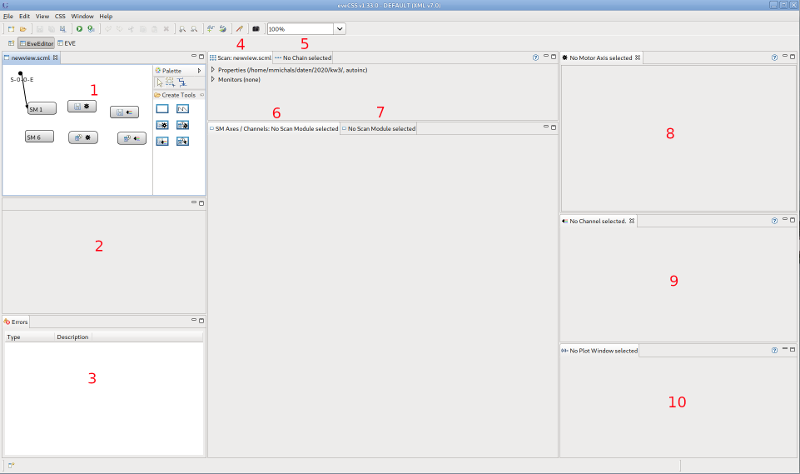
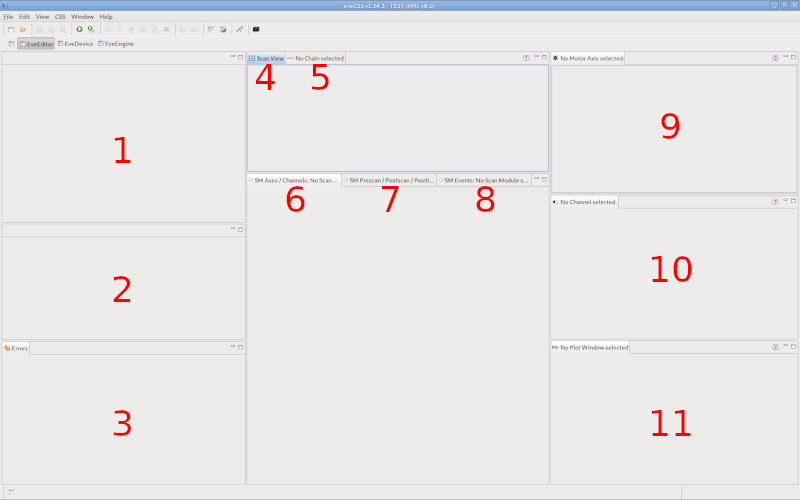
#5363: help-concepts pages creation and modification, tasks TOC entries

diff --git a/bundles/de.ptb.epics.eve.editor/help/content/concepts/smaxeschannelsview.html b/bundles/de.ptb.epics.eve.editor/help/content/concepts/smaxeschannelsview.html
@@ -1,1 +1,1 @@
-<?xml version='1.0' encoding='utf-8' ?><!DOCTYPE html PUBLIC "-//W3C//DTD XHTML 1.0 Transitional//EN" "http://www.w3.org/TR/xhtml1/DTD/xhtml1-transitional.dtd"><html xmlns="http://www.w3.org/1999/xhtml"><head><meta http-equiv="Content-Type" content="text/html; charset=utf-8"/><title>smaxeschannelsview</title><link type="text/css" rel="stylesheet" href="PLUGINS_ROOT/de.ptb.epics.eve.editor/help/css/editor.css"/></head><body><h1 id="top" class="eveTopic|">SM Axes / Channels View</h1><ol class="toc" style="list-style: circle;"><li><a href="#top">SM Axes / Channels View</a><ol style="list-style: circle;"><li><a href="#ScanModule">Scan Module</a></li><li><a href="#StaticAxisSnapshot">Static Axis Snapshot</a></li><li><a href="#StaticChannelSnapshot">Static Channel Snapshot</a></li><li><a href="#DynamicAxisSnapshot">Dynamic Axis Snapshot</a></li><li><a href="#DynamicChannelSnapshot">Dynamic Channel Snapshot</a></li></ol></li></ol><p>The content of the ScanModuleView depends on the type of the currently selected scan module. It shows attributes that can be altered and allows adding/deleting devices, actions, events, etc. in certain cases. The different appearances are shown in the following.</p><h2 id="ScanModule" class="eveTopic">Scan Module</h2><p class="backToTop"><a href="#top">back to top</a></p><p>For a common (a.k.a. classic) scan module the SM Axes / Channels View looks as follows:</p><p style="text-align: center;"><img class="eveImage" alt="sample content for a scan module" title="sample content for a scan module" border="0" src="../../img/concepts/SMAxesChannelsView/ClassicComposite.png"/></p><h3 id="GeneralSettings" class="eveTopic">General Settings</h3><ul><li><i>No of Measurements</i>: the number of measurements taken for each motor position</li><li><i>Trigger Delay (in s)</i>: delay in s before detectors are triggered</li><li><i>Settle Time (in s)</i>: delay in s after the first motor position is reached</li><li><i>Manual Trigger</i>: whether setting motor positions and/or triggering detectors should be confirmed</li></ul><h3 id="MotorAxes" class="eveTopic">Motor Axes</h3><p>Allows adding/removing of and displays current motor axes. Properties of selected axes can be modified either in the <a href="motoraxisview.html">Motor Axis View</a> or <a href="../tasks/editaxisproperties.html">directly in the table</a>.</p><h3 id="DetectorChannels" class="eveTopic">Detector Channels</h3><p>Allows adding/removing of and displays current detector channels. Properties of selected channels can be modified either in the <a href="detectorchannelview.html">Detector Channel View</a> or <a href="../tasks/editchannelproperties.html">directly in the table</a>.</p><h2 id="StaticAxisSnapshot" class="eveTopic">Static Axis Snapshot</h2><p class="backToTop"><a href="#top">back to top</a></p><p>When a scan module of type &#8222;Axis Snapshot (static)&#8221; is selected, the view shows a table containing all axes contained in the snapshot. Axes can be added or removed.</p><p style="text-align: center;"><img class="eveImage" alt="sample content for a static axis snapshot scan module" title="sample content for a static axis snapshot scan module" border="0" src="../../img/concepts/SMAxesChannelsView/StaticAxisPositionsComposite.png"/></p><h2 id="StaticChannelSnapshot" class="eveTopic">Static Channel Snapshot</h2><p class="backToTop"><a href="#top">back to top</a></p><p>When a scan module of type &#8222;Channel Snapshot (static)&#8221; is selected the view shows a table containing all channels contained in the snapshot. Channels can be added or removed. </p><p style="text-align: center;"><img class="eveImage" alt="sample content for a static channel snapshot scan module" title="sample content for a static channel snapshot scan module" border="0" src="../../img/concepts/SMAxesChannelsView/StaticChannelValuesComposite.png"/></p><h2 id="DynamicAxisSnapshot" class="eveTopic">Dynamic Axis Snapshot</h2><p class="backToTop"><a href="#top">back to top</a></p><p>Scan modules of type &#8222;Axis Snapshot (dynamic)&#8221; cannot be altered. Their contents is determined during scan execution. The view shows an immutable table showing all axes contained in the snapshot based on the currently loaded device definition.</p><p style="text-align: center;"><img class="eveImage" alt="sample content for a dynamic axis snapshot scanmodule" title="sample content for a dynamic axis snapshot scanmodule" border="0" src="../../img/concepts/SMAxesChannelsView/DynamicAxisPositionsComposite.png"/></p><h2 id="DynamicChannelSnapshot" class="eveTopic">Dynamic Channel Snapshot</h2><p class="backToTop"><a href="#top">back to top</a></p><p>Scan modules of type &#8222;Channel Snapshot (dynamic)&#8221; cannot be altered. Their contents is determined during scan execution. The view shows an immutable table showing all channels contained in the snapshot based on the currently loaded device definition.</p><p style="text-align: center;"><img class="eveImage" alt="sample content for a dynamic channel snapshot scanmodule" title="sample content for a dynamic channel snapshot scanmodule" border="0" src="../../img/concepts/SMAxesChannelsView/DynamicChannelValuesComposite.png"/></p></body></html>
+<?xml version='1.0' encoding='utf-8' ?><!DOCTYPE html PUBLIC "-//W3C//DTD XHTML 1.0 Transitional//EN" "http://www.w3.org/TR/xhtml1/DTD/xhtml1-transitional.dtd"><html xmlns="http://www.w3.org/1999/xhtml"><head><meta http-equiv="Content-Type" content="text/html; charset=utf-8"/><title>smaxeschannelsview</title><link type="text/css" rel="stylesheet" href="PLUGINS_ROOT/de.ptb.epics.eve.editor/help/css/editor.css"/></head><body><h1 id="top" class="eveTopic|">SM Axes / Channels View</h1><ol class="toc" style="list-style: circle;"><li><a href="#top">SM Axes / Channels View</a><ol style="list-style: circle;"><li><a href="#ScanModule">Scan Module</a></li><li><a href="#StaticAxisSnapshot">Static Axis Snapshot</a></li><li><a href="#StaticChannelSnapshot">Static Channel Snapshot</a></li><li><a href="#DynamicAxisSnapshot">Dynamic Axis Snapshot</a></li><li><a href="#DynamicChannelSnapshot">Dynamic Channel Snapshot</a></li></ol></li></ol><p>The content of the SM Axes / Channels View depends on the type of the currently selected scan module. It shows attributes that can be altered and allows adding/deleting devices, actions, events, etc. in certain cases. The different appearances are shown in the following.</p><h2 id="ScanModule" class="eveTopic">Scan Module</h2><p class="backToTop"><a href="#top">back to top</a></p><p>For a common (a.k.a. classic) scan module the SM Axes / Channels View looks as follows:</p><p style="text-align: center;"><img class="eveImage" alt="sample content for a scan module" title="sample content for a scan module" border="0" src="../../img/concepts/SMAxesChannelsView/ClassicComposite.png"/></p><h3 id="GeneralSettings" class="eveTopic">General Settings</h3><ul><li><i>No of Measurements</i>: the number of measurements taken for each motor position</li><li><i>Trigger Delay (in s)</i>: delay in s before detectors are triggered</li><li><i>Settle Time (in s)</i>: delay in s after the first motor position is reached</li><li><i>Manual Trigger</i>: whether setting motor positions and/or triggering detectors should be confirmed</li></ul><h3 id="MotorAxes" class="eveTopic">Motor Axes</h3><p>Allows adding/removing of and displays Motor Axes of the currently selected scan module. Properties of selected axes can be modified either in the <a href="motoraxisview.html">Motor Axis View</a> or <a href="../tasks/editaxisproperties.html">directly in the table</a>.</p><h3 id="DetectorChannels" class="eveTopic">Detector Channels</h3><p>Allows adding/removing of and displays Detector Channels of the currently selected scan module. Properties of selected channels can be modified either in the <a href="detectorchannelview.html">Detector Channel View</a> or <a href="../tasks/editchannelproperties.html">directly in the table</a>.</p><h2 id="StaticAxisSnapshot" class="eveTopic">Static Axis Snapshot</h2><p class="backToTop"><a href="#top">back to top</a></p><p>When a scan module of type &#8220;Axis Snapshot (static)&#8221; is selected, the view shows a table containing all axes contained in the snapshot. Axes can be added or removed.</p><p style="text-align: center;"><img class="eveImage" alt="sample content for a static axis snapshot scan module" title="sample content for a static axis snapshot scan module" border="0" src="../../img/concepts/SMAxesChannelsView/StaticAxisPositionsComposite.png"/></p><h2 id="StaticChannelSnapshot" class="eveTopic">Static Channel Snapshot</h2><p class="backToTop"><a href="#top">back to top</a></p><p>When a scan module of type &#8220;Channel Snapshot (static)&#8221; is selected the view shows a table containing all channels contained in the snapshot. Channels can be added or removed. </p><p style="text-align: center;"><img class="eveImage" alt="sample content for a static channel snapshot scan module" title="sample content for a static channel snapshot scan module" border="0" src="../../img/concepts/SMAxesChannelsView/StaticChannelValuesComposite.png"/></p><h2 id="DynamicAxisSnapshot" class="eveTopic">Dynamic Axis Snapshot</h2><p class="backToTop"><a href="#top">back to top</a></p><p>Scan modules of type &#8220;Axis Snapshot (dynamic)&#8221; cannot be altered. Their contents is determined during scan execution. The view shows an immutable table showing all axes contained in the snapshot based on the currently loaded device definition.</p><p style="text-align: center;"><img class="eveImage" alt="sample content for a dynamic axis snapshot scanmodule" title="sample content for a dynamic axis snapshot scanmodule" border="0" src="../../img/concepts/SMAxesChannelsView/DynamicAxisPositionsComposite.png"/></p><h2 id="DynamicChannelSnapshot" class="eveTopic">Dynamic Channel Snapshot</h2><p class="backToTop"><a href="#top">back to top</a></p><p>Scan modules of type &#8220;Channel Snapshot (dynamic)&#8221; cannot be altered. Their contents is determined during scan execution. The view shows an immutable table showing all channels contained in the snapshot based on the currently loaded device definition.</p><p style="text-align: center;"><img class="eveImage" alt="sample content for a dynamic channel snapshot scanmodule" title="sample content for a dynamic channel snapshot scanmodule" border="0" src="../../img/concepts/SMAxesChannelsView/DynamicChannelValuesComposite.png"/></p></body></html>

diff --git a/bundles/de.ptb.epics.eve.editor/help/content/tasks/addelements.html b/bundles/de.ptb.epics.eve.editor/help/content/tasks/addelements.html
@@ -1,0 +1,1 @@
+<?xml version='1.0' encoding='utf-8' ?><!DOCTYPE html PUBLIC "-//W3C//DTD XHTML 1.0 Transitional//EN" "http://www.w3.org/TR/xhtml1/DTD/xhtml1-transitional.dtd"><html xmlns="http://www.w3.org/1999/xhtml"><head><meta http-equiv="Content-Type" content="text/html; charset=utf-8"/><title>addelements</title><link type="text/css" rel="stylesheet" href="PLUGINS_ROOT/de.ptb.epics.eve.editor/help/css/editor.css"/></head><body><h1 id="top" class="eveTopic|">Add Elements to a Scan Module</h1><ol class="toc" style="list-style: circle;"><li><a href="#top">Add Elements to a Scan Module</a><ol style="list-style: circle;"><li><a href="#AddAxisChannel">Add Axis/Channel</a></li><li><a href="#AddPrePostscan">Add Pre-/Postscan</a></li><li><a href="#AddPositioning">Add Positioning</a></li><li><a href="#AddPlotWindow">Add Plot Window</a></li></ol></li></ol><p>To add a device (e.g. a motor axis) to a scan module follow these steps:</p><p>In the Editor, select the scan module the device should be added to by (left-)clicking on it: </p><p style="text-align: center;"><img class="eveImage" alt="select the scan module by clicking on it" title="select the scan module by clicking on it" border="0" src="../../img/tasks/adddevicestosm/adddevicestosm-clickonsm.png"/></p><p>The previously empty SM Axes / Channels View and Scan Module View now shows the contents of the scan module just selected.</p><p style="text-align: center;"><img class="eveImage" alt="previously empty scan module views get filled" title="previously empty scan module views get filled" border="0" src="../../img/tasks/adddevicestosm/adddevicestosm-views.png"/></p><h2 id="AddAxisChannel" class="eveTopic">Add Axis/Channel</h2><p class="backToTop"><a href="#top">back to top</a></p><p>To add an axis or channel to the selected scan module, select the SM Axes / Channels View and right-click in the white area of the corresponding table to open a context menu showing all devices (ordered by classes). Navigate to the axis you want to add and click on it (or click on add all to add all devices of the class). Note that depending on the current device definition and configuration (class names) <a href="../reference/deviceclasses.html">different devices are shown</a>.</p><p style="text-align: center;"><img class="eveImage" alt="context menu showing available motors which can be selected to add them to the scan module" title="context menu showing available motors which can be selected to add them to the scan module" border="0" src="../../img/tasks/adddevicestosm/adddevicestosm-addmotor.png"/></p><p>Afterwards <a href="editaxisproperties.html">properties of an axis</a> and <a href="editchannelproperties.html">properties of a channel</a> can be edited.</p><h2 id="AddPrePostscan" class="eveTopic">Add Pre-/Postscan</h2><p class="backToTop"><a href="#top">back to top</a></p><p>To add a Pre-/Postscan to the selected scan module, select the SM Prescan / Postscan / Positioning / Plot View and right-click in the white area of the corresponding table to open a context menu. Select either prescan or postscan and navigate to the device/option you want to add.</p><p style="text-align: center;"><img class="eveImage" alt="context menu showing available pre-/postscans which can be selected to add them to the scan module" title="context menu showing available pre-/postscans which can be selected to add them to the scan module" border="0" src="../../img/tasks/adddevicestosm/addprepost.png"/></p><p>Properties of added Pre-/Postscans can be <a href="editprepostscanproperties.html">edited</a> afterwards.</p><h2 id="AddPositioning" class="eveTopic">Add Positioning</h2><p class="backToTop"><a href="#top">back to top</a></p><p>To add a Positioning to the selected scan module, select the SM Prescan / Postscan / Positioning / Plot View and right-click in the white area of the corresponding table to open a context menu. Motor Axes available for positioning are shown and can be selected. Remember that nothing will be shown, if the scan module contains no axes (or every axis is already defined as a positioning).</p><p style="text-align: center;"><img class="eveImage" alt="context menu showing available positionings which can be selected to add them to the scan module" title="context menu showing available positionings which can be selected to add them to the scan module" border="0" src="../../img/tasks/adddevicestosm/addpositioning.png"/></p><p>Properties of added Positionings can be <a href="editpositioningproperties.html">edited</a> afterwards.</p><h2 id="AddPlotWindow" class="eveTopic">Add Plot Window</h2><p class="backToTop"><a href="#top">back to top</a></p><p>To add a Plot Window to the selected scan module, select the SM Prescan / Postscan / Positioning / Plot View and right-click in the white area of the corresponding table to open a context menu and click on &#8220;Add Plot Window&#8221;.</p><p style="text-align: center;"><img class="eveImage" alt="context menu showing the add plot window option which can be selected to add a plot window to the scan module" title="context menu showing the add plot window option which can be selected to add a plot window to the scan module" border="0" src="../../img/tasks/adddevicestosm/addplot.png"/></p><p>Properties of added Plot Windows can be <a href="editplotproperties.html">edited</a> afterwards.</p></body></html>

diff --git a/bundles/de.ptb.epics.eve.editor/help/content/concepts/eveeditorperspective.html b/bundles/de.ptb.epics.eve.editor/help/content/concepts/eveeditorperspective.html
@@ -1,1 +1,1 @@
-<?xml version='1.0' encoding='utf-8' ?><!DOCTYPE html PUBLIC "-//W3C//DTD XHTML 1.0 Transitional//EN" "http://www.w3.org/TR/xhtml1/DTD/xhtml1-transitional.dtd"><html xmlns="http://www.w3.org/1999/xhtml"><head><meta http-equiv="Content-Type" content="text/html; charset=utf-8"/><title>eveeditorperspective</title><link type="text/css" rel="stylesheet" href="PLUGINS_ROOT/de.ptb.epics.eve.editor/help/css/editor.css"/></head><body><h1 id="EveEditorPerspective" class="eveTopic">EveEditor Perspective</h1><p>The image below shows an overview of the EveEditor Perspective.</p><p><img class="eveImage" alt="EVE Editor Overview" title="EVE Editor Overview" border="0" src="../../img/gettingstarted-editor.png"/></p><table class="eveRefTable"><tr><td>1</td><td>Editor Area</td><td>graphical representation of scans</td></tr><tr><td>2</td><td>Plot View Place Holder</td><td>Plots of scans being executed are shown here</td></tr><tr><td>3</td><td>Error View</td><td>message log</td></tr><tr><td>4</td><td>Scan View</td><td>scan properties</td></tr><tr><td>5</td><td>Chain View</td><td>chain properties</td></tr><tr><td>6</td><td>SM Axes / Channels View</td><td>general properties, axes and channels of a scan module</td></tr><tr><td>7</td><td>Scan Module View</td><td>additional scan module properties</td></tr><tr><td>8</td><td>Motor Axis View</td><td>motor axis properties</td></tr><tr><td>9</td><td>Detector Channel View</td><td>detector channel properties</td></tr><tr><td>10</td><td>Plot Window View</td><td>plot window properties</td></tr></table></body></html>
+<?xml version='1.0' encoding='utf-8' ?><!DOCTYPE html PUBLIC "-//W3C//DTD XHTML 1.0 Transitional//EN" "http://www.w3.org/TR/xhtml1/DTD/xhtml1-transitional.dtd"><html xmlns="http://www.w3.org/1999/xhtml"><head><meta http-equiv="Content-Type" content="text/html; charset=utf-8"/><title>eveeditorperspective</title><link type="text/css" rel="stylesheet" href="PLUGINS_ROOT/de.ptb.epics.eve.editor/help/css/editor.css"/></head><body><h1 id="EveEditorPerspective" class="eveTopic">EveEditor Perspective</h1><p>The image below shows an overview of the EveEditor Perspective.</p><p><img class="eveImage" alt="EVE Editor Overview" title="EVE Editor Overview" border="0" src="../../img/gettingstarted-editor.png"/></p><table class="eveRefTable"><tr><td>1</td><td>Editor Area</td><td>graphical representation of scans</td></tr><tr><td>2</td><td>Plot View Place Holder</td><td>Plots of scans being executed are shown here</td></tr><tr><td>3</td><td>Error View</td><td>message log</td></tr><tr><td>4</td><td>Scan View</td><td>scan properties</td></tr><tr><td>5</td><td>Chain View</td><td>chain properties</td></tr><tr><td>6</td><td>SM Axes / Channels View</td><td>general properties, axes and channels of a scan module</td></tr><tr><td>7</td><td>SM Prescan / Postscan / Positiong / Plot View</td><td>prescan, postscan, positioning and plot properties of a scan module</td></tr><tr><td>8</td><td>SM Events View</td><td>event properties of a scan module</td></tr><tr><td>9</td><td>Motor Axis View</td><td>motor axis properties</td></tr><tr><td>10</td><td>Detector Channel View</td><td>detector channel properties</td></tr><tr><td>11</td><td>Plot Window View</td><td>plot window properties</td></tr></table></body></html>

diff --git a/bundles/de.ptb.epics.eve.editor/help/content/concepts/smprepostposplotview.html b/bundles/de.ptb.epics.eve.editor/help/content/concepts/smprepostposplotview.html
@@ -1,0 +1,1 @@
+<?xml version='1.0' encoding='utf-8' ?><!DOCTYPE html PUBLIC "-//W3C//DTD XHTML 1.0 Transitional//EN" "http://www.w3.org/TR/xhtml1/DTD/xhtml1-transitional.dtd"><html xmlns="http://www.w3.org/1999/xhtml"><head><meta http-equiv="Content-Type" content="text/html; charset=utf-8"/><title>smprepostposplotview</title><link type="text/css" rel="stylesheet" href="PLUGINS_ROOT/de.ptb.epics.eve.editor/help/css/editor.css"/></head><body><h1 id="top" class="eveTopic|">SM Prescan / Postscan / Positioning / Plot View</h1><ol class="toc" style="list-style: circle;"><li><a href="#top">SM Prescan / Postscan / Positioning / Plot View</a><ol style="list-style: circle;"><li><a href="#ScanModule">Scan Module</a></li><li><a href="#Snapshots">Snapshots</a></li></ol></li></ol><p>The content of the SM Prescan / Postscan / Positioning / Plot View depends on the type of the currently selected scan module. It allows adding/deleting and editing properties of prescans, postscans, positionings and plots in certain cases. The different appearances are shown in the following.</p><h2 id="ScanModule" class="eveTopic">Scan Module</h2><p class="backToTop"><a href="#top">back to top</a></p><p>For a common (a.k.a. classic) scan module the view looks as follows:</p><p style="text-align: center;"><img class="eveImage" alt="sample content for a scan module" title="sample content for a scan module" border="0" src="../../img/concepts/SMPrePostPosPlotView/ClassicComposite.png"/></p><h3 id="PrePostscans" class="eveTopic">Pre-/Postscans</h3><p>Allows adding/removing of and displays Pre- and Postscans of the currently selected scan module. Properties of Pre-/Postscans can be modified <a href="../tasks/editprepostscanproperties.html">directly in the table</a>.</p><h3 id="Positionings" class="eveTopic">Positionings</h3><p>Allows adding/removing of and displays Positionings of the currently selected scan module. Properties of Positionings can be modified <a href="../tasks/editpositioningproperties.html">directly in the table</a>.</p><h3 id="Plots" class="eveTopic">Plots</h3><p>Allows adding/removing of and displays Plots of the currently selected scan module. Properties of Plots can be modified <a href="../tasks/editplotproperties.html">directly in the table</a>.</p><h2 id="Snapshots" class="eveTopic">Snapshots</h2><p class="backToTop"><a href="#top">back to top</a></p><p>Pre-/Postscans, Positionings and Plots are only available in scan modules of type classic. Hence when a scan module of another type is selected, no editing options are available. A hint is shown then:</p><p style="text-align: center;"><img class="eveImage" alt="no content shown for a scan module of type other than classic" title="no content shown for a scan module of type other than classic" border="0" src="../../img/concepts/SMPrePostPosPlotView/SnapshotComposite.png"/></p></body></html>

diff --git a/bundles/de.ptb.epics.eve.editor/help/content/concepts/smeventsview.html b/bundles/de.ptb.epics.eve.editor/help/content/concepts/smeventsview.html
@@ -1,0 +1,1 @@
+<?xml version='1.0' encoding='utf-8' ?><!DOCTYPE html PUBLIC "-//W3C//DTD XHTML 1.0 Transitional//EN" "http://www.w3.org/TR/xhtml1/DTD/xhtml1-transitional.dtd"><html xmlns="http://www.w3.org/1999/xhtml"><head><meta http-equiv="Content-Type" content="text/html; charset=utf-8"/><title>smeventsview</title><link type="text/css" rel="stylesheet" href="PLUGINS_ROOT/de.ptb.epics.eve.editor/help/css/editor.css"/></head><body><h1 id="top" class="eveTopic|">SM Events View</h1><ol class="toc" style="list-style: circle;"><li><a href="#top">SM Events View</a><ol style="list-style: circle;"><li><a href="#ScanModule">Scan Module</a></li><li><a href="#Snapshots">Snapshots</a></li></ol></li></ol><p>The content of the SM Events View depends on the type of the currently selected scan module. It allows adding/deleting and editing properties of Pause, Redo, Skip and Trigger Events in certain cases. The different appearances are shown in the following.</p><h2 id="ScanModule" class="eveTopic">Scan Module</h2><p class="backToTop"><a href="#top">back to top</a></p><p>For a common (a.k.a. classic) scan module the view looks as follows:</p><p style="text-align: center;"><img class="eveImage" alt="sample content for a scan module" title="sample content for a scan module" border="0" src="../../img/concepts/SMEventsView/ClassicComposite.png"/></p><p>A (classic) scan module allows defining different types of events to pause execution, redo the last measurement, etc. More information about events can be found <a href="events.html">here</a>.</p><h2 id="Snapshots" class="eveTopic">Snapshots</h2><p class="backToTop"><a href="#top">back to top</a></p><p>Events are only available in scan modules of type classic. Hence when a scan module of another type is selected, no editing options are available. A hint is shown then:</p><p style="text-align: center;"><img class="eveImage" alt="no content shown for a scan module of type other than classic" title="no content shown for a scan module of type other than classic" border="0" src="../../img/concepts/SMEventsView/SnapshotComposite.png"/></p></body></html>

diff --git a/bundles/de.ptb.epics.eve.editor/help/content/tasks/editprepostscanproperties.html b/bundles/de.ptb.epics.eve.editor/help/content/tasks/editprepostscanproperties.html
@@ -1,0 +1,1 @@
+<?xml version='1.0' encoding='utf-8' ?><!DOCTYPE html PUBLIC "-//W3C//DTD XHTML 1.0 Transitional//EN" "http://www.w3.org/TR/xhtml1/DTD/xhtml1-transitional.dtd"><html xmlns="http://www.w3.org/1999/xhtml"><head><meta http-equiv="Content-Type" content="text/html; charset=utf-8"/><title>editprepostscanproperties</title><link type="text/css" rel="stylesheet" href="PLUGINS_ROOT/de.ptb.epics.eve.editor/help/css/editor.css"/></head><body><h1 id="top" class="eveTopic|">Edit Properties of a Pre-/Postscan</h1><ol class="toc" style="list-style: circle;"><li><a href="#top">Edit Properties of a Pre-/Postscan</a></li></ol></body></html>

diff --git a/bundles/de.ptb.epics.eve.editor/help/content/tasks/editpositioningproperties.html b/bundles/de.ptb.epics.eve.editor/help/content/tasks/editpositioningproperties.html
@@ -1,0 +1,1 @@
+<?xml version='1.0' encoding='utf-8' ?><!DOCTYPE html PUBLIC "-//W3C//DTD XHTML 1.0 Transitional//EN" "http://www.w3.org/TR/xhtml1/DTD/xhtml1-transitional.dtd"><html xmlns="http://www.w3.org/1999/xhtml"><head><meta http-equiv="Content-Type" content="text/html; charset=utf-8"/><title>editpositioningproperties</title><link type="text/css" rel="stylesheet" href="PLUGINS_ROOT/de.ptb.epics.eve.editor/help/css/editor.css"/></head><body><h1 id="top" class="eveTopic|">Edit Properties of a Positioning</h1><ol class="toc" style="list-style: circle;"><li><a href="#top">Edit Properties of a Positioning</a></li></ol></body></html>

diff --git a/bundles/de.ptb.epics.eve.editor/help/content/tasks/editplotproperties.html b/bundles/de.ptb.epics.eve.editor/help/content/tasks/editplotproperties.html
@@ -1,0 +1,1 @@
+<?xml version='1.0' encoding='utf-8' ?><!DOCTYPE html PUBLIC "-//W3C//DTD XHTML 1.0 Transitional//EN" "http://www.w3.org/TR/xhtml1/DTD/xhtml1-transitional.dtd"><html xmlns="http://www.w3.org/1999/xhtml"><head><meta http-equiv="Content-Type" content="text/html; charset=utf-8"/><title>editplotproperties</title><link type="text/css" rel="stylesheet" href="PLUGINS_ROOT/de.ptb.epics.eve.editor/help/css/editor.css"/></head><body><h1 id="top" class="eveTopic|">Edit Properties of a Plot</h1><ol class="toc" style="list-style: circle;"><li><a href="#top">Edit Properties of a Plot</a></li></ol></body></html>

diff --git a/bundles/de.ptb.epics.eve.editor/src/de/ptb/epics/eve/editor/EveEditorPerspective.java b/bundles/de.ptb.epics.eve.editor/src/de/ptb/epics/eve/editor/EveEditorPerspective.java
@@ -10,6 +10,7 @@ import de.ptb.epics.eve.editor.views.detectorchannelview.ui.DetectorChannelView;
 import de.ptb.epics.eve.editor.views.errorview.ErrorView;
 import de.ptb.epics.eve.editor.views.motoraxisview.MotorAxisView;
 import de.ptb.epics.eve.editor.views.plotwindowview.PlotWindowView;
+import de.ptb.epics.eve.editor.views.prepostposplotview.ui.PrePostPosPlotView;
 import de.ptb.epics.eve.editor.views.scanmoduleview.ScanModuleView;
 import de.ptb.epics.eve.editor.views.scanview.ui.ScanView;
 
@@ -56,6 +57,8 @@ public class EveEditorPerspective implements IPerspectiveFactory {
 				"ScanModuleViews", IPageLayout.BOTTOM, 0.28f, ChainView.ID);
 		scanModuleViewsFolder.addView(AxesChannelsView.ID);
 		layout.getViewLayout(AxesChannelsView.ID).setCloseable(false);
+		scanModuleViewsFolder.addView(PrePostPosPlotView.ID);
+		layout.getViewLayout(PrePostPosPlotView.ID).setCloseable(false);
 		scanModuleViewsFolder.addView(ScanModuleView.ID);
 		layout.getViewLayout(ScanModuleView.ID).setCloseable(false);
 		

diff --git a/bundles/de.ptb.epics.eve.editor/src/de/ptb/epics/eve/editor/views/prepostposplotview/ui/SnapshotComposite.java b/bundles/de.ptb.epics.eve.editor/src/de/ptb/epics/eve/editor/views/prepostposplotview/ui/SnapshotComposite.java
@@ -18,7 +18,7 @@ public class SnapshotComposite extends Composite {
 		this.setLayout(new GridLayout());
 		Label label = new Label(this, SWT.WRAP);
 		label.setText(
-			"Pre-/Postscans are only available in Scan Modules of type classic.");
+			"Pre-/Postscans, Positionings and Plots are only available in Scan Modules of type classic.");
 		GridData gridData = new GridData();
 		gridData.horizontalAlignment = GridData.FILL;
 		gridData.grabExcessHorizontalSpace = true;
